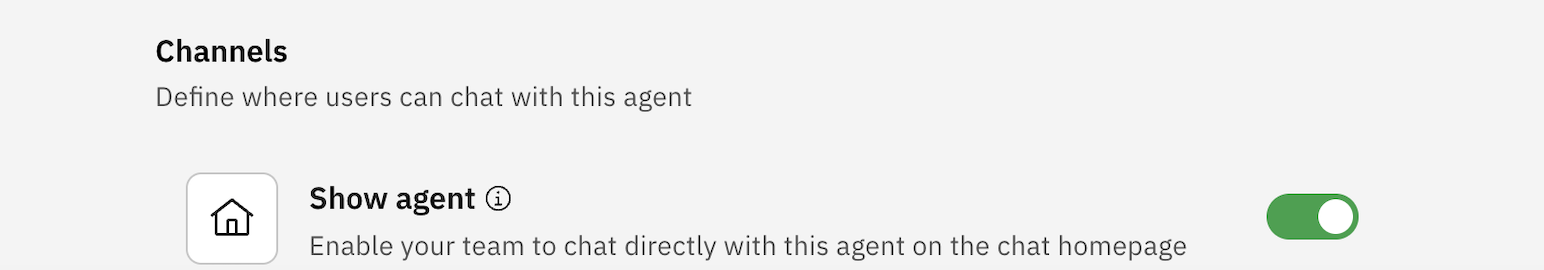
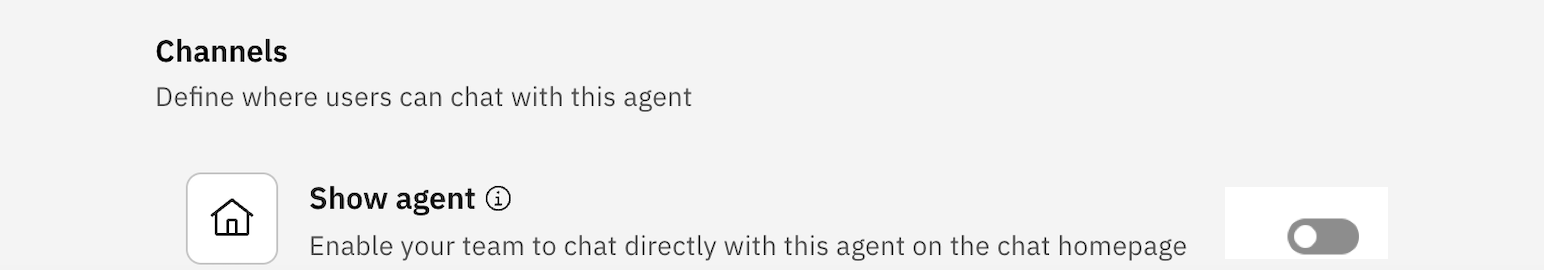
Updated Readme

Changed region(s): [[0.8083, 0.7111, 0.9016, 0.9481]]

diff --git a/usecases/O2C-Automation-lab/practitioner_docs/hands-on-lab.md b/usecases/O2C-Automation-lab/practitioner_docs/hands-on-lab.md
@@ -79,9 +79,8 @@ The Supervisor Agent oversees two domain-specific agents:
 It also handles general queries by routing them to a knowledge base.
 ```
 
-watsonx Orchestrate supports creating an agent from scratch or from a template which involves browsing a catalog of existing agents and using attributed of another agent as a template for the new agent. For this lab, you will be creating agents from scratch.
+Watsonx Orchestrate supports creating an agent from scratch or from a template which involves browsing a catalog of existing agents and using attributed of another agent as a template for the new agent. For this lab, you will be creating agents from scratch.
 
-*Note: It is recommended to review the [What are AI Agents?](https://www.ibm.com/think/topics/ai-agents) blog for some background on how AI agents work.*
 ![wxo order to cash agent](./images/img20.png) 
 
 ### Agent Configuration 
@@ -92,16 +91,10 @@ After the AI Agent is created, in this section, you will go through the process 
    - Profile: The **Profile** section consists of the description of the agent which you provided as part of creating the agent. You can always go to this section to edit and refine the description of the agent as needed.
 
    - Knowledge: The **Knowledge** section is where you can add knowledge to the agent. Adding knowledge to agents plays a crucial role in enhancing their conversational capabilities by providing them with the necessary information to generate accurate and contextually relevant responses for specific use cases. You can directly upload files to the agent, or connect to a Milvus or Elasticsearch instance as a content repository. Through this **Knowledge** interface, you can enable your AI agents to implement the Retrieval Augmented Generation (RAG) pattern which is a very popular AI pattern for grounding responses to a trusted source of data such as enterprise knowledge base.
-   
-   *Note: For more details, please consult the [Adding knowledge to agents](https://www.ibm.com/docs/en/watsonx/watson-orchestrate/current?topic=agents-adding-knowledge) documentation.*
 
    - Toolset: While *Knowledge* is how you empower agents with a trusted knowledge base, then **Toolset** is how you enable agents to take action by providing them with *Tools* and *Agents*. Agents can accomplish tasks by using **Tools** or can delegate tasks to other **Agents** which are deeply skilled in such tasks.
-
-   *Note: For more details, please consult the [Adding tools to an agent](https://www.ibm.com/docs/en/watsonx/watson-orchestrate/current?topic=agents-adding-tools) and [Adding agents for orchestration](https://www.ibm.com/docs/en/watsonx/watson-orchestrate/current?topic=agents-adding-orchestration) sections of the documentation.*
    
    - Behavior: The **Behavior** section of the agent configuration is where you provide instructions to the agent to define how it responds to user requests and situations. You can configure rules that dictate when and how the agent should take action. These rules help the agent behave in a predictable and consistent manner, delivering a seamless user experience.
-
-   *Note: For more details, please consult the [Adding instructions to agents](https://www.ibm.com/docs/en/watsonx/watson-orchestrate/current?topic=agents-adding-instructions) documentation.
 
 Lastly, after you've completed your agent configuration and tested its performance, you can **Deploy** the agent to make it available through the selected channel. At this time, the main channel supported is the *Chat* home page you access when you first launched watsonx Orchestrate. The product will be adding support for additional channels where you can deploy your agent(s).
 
@@ -113,7 +106,7 @@ Description:
 
 ```This knowledge addresses all the queries related to Order to Cash process.```
 
-Next, you have to choose how to provide knowledge information to the agent. Watsonx Orchestrate supports adding knowledge to the agent either by uploading files directly through the UI or by pointing to a content repository (Mivlus or ElasticSearch). The [Adding knowledge to agents](https://www.ibm.com/docs/en/watsonx/watson-orchestrate/current?topic=agents-adding-knowledge) documentation provides more details. For this lab, click the **Upload files** button to upload pdf files.
+Next, you have to choose how to provide knowledge information to the agent. Watsonx Orchestrate supports adding knowledge to the agent either by uploading files directly through the UI or by pointing to a content repository (Mivlus or ElasticSearch). For this lab, click the **Upload files** button to upload pdf files.
 
 ![wxo agent config knowledge](./images/img35.png) 
 
@@ -164,7 +157,7 @@ As explained earlier, the decription of an agent is important as it is leveraged
 
 ![wxo tool options](./images/img4.png) 
 
-watsonx Orchestrate supports multiple approaches to adding tools to agents as explained in the [Adding tools to an agent](https://www.ibm.com/docs/en/watsonx/watson-orchestrate/current?topic=agents-adding-tools) documentation:
+watsonx Orchestrate supports multiple approaches to adding tools to agents:
 
    - Add from catalog: The **Add from catalog** option enables you to add a tool from a rich catalog of pre-defined tools. The catalog of tools is actively being developed to make it even easier to add tools to agents.
 
@@ -173,9 +166,6 @@ watsonx Orchestrate supports multiple approaches to adding tools to agents as ex
    - Import: The **Import** option enables you to import an external tool using an OpenAPI specification and selecting which operations you want to import as tools.
 
    - Create a new flow: The **Create a new flow** option provides you with a drag and drop tool builder interface to create a sequence of steps that utilize conditional controls and activities. 
-
-Additionally, you can use the watsonx Orchestrate [Agentic Development Kit (ADK)](https://developer.watson-orchestrate.ibm.com/) to develop and upload Python and OpenAPI tools to a specific watsonx Orchestrate instance which you can then add to the agents.
-watsonx Orchestrate also supports the addition of [Model Context Protocol (MCP)](https://developer.watson-orchestrate.ibm.com/) tools. If you are not familiar with it, MCP is a standard for connecting AI Agents to systems where data lives including content repositories, business tools and development environments. MCP is becoming increasingly popular as the standard for enabling agents with tools.
 
 For purposes of the Order-to-Cash Agent, you will use the **Import** option to import an OpenAPI specification and define which operations to import as tools. You will need a Openapi spec file which will be provided by your instructor. 
 
@@ -292,7 +282,7 @@ Again, observe the response and expand the **Show Reasoning** link to trace thro
 ![wxo tool order](./images/img9.png) 
 ![wxo tool order](./images/img10.png)
 
-23. At this point, you are ready to deploy your Agent. To do so, scroll to the bottom of the configuration page and make sure the slide bar next to Show agent is enabled (green) to make the Agent accessible on the chat interface. Click the **Deploy** button to deploy the agent and makes it available to be used as a collaborator agent.
+23. At this point, you are ready to deploy your Agent. To do so, scroll to the bottom of the configuration page and make sure the slide bar next to Show agent is disabled. Click the **Deploy** button to deploy the agent and makes it available to be used as a collaborator agent.
 
 ![wxo order managemen agent deploy](./images/show-chat.png)
 ![wxo o2c deploy](./images/img11.png) 
@@ -405,7 +395,7 @@ Next, test the functionality of the agent by asking a question such as
 ![wxo order management agent behavior](./images/img18.png)
 ![wxo chat q3 reasoning](./images/img34.png)
 
-33. At this point, you are ready to deploy your Agent. To do so, scroll to the bottom of the configuration page and make sure the slide bar next to Show agent is enabled (green) to make the Agent accessible on the chat interface. Next, click the **Deploy** button to deploy the agent and makes it available to be used as a collaborator agent.
+33. At this point, you are ready to deploy your Agent. To do so, scroll to the bottom of the configuration page and make sure the slide bar next to Show agent is disabled. Next, click the **Deploy** button to deploy the agent and makes it available to be used as a collaborator agent.
 
 ![wxo order managemen agent deploy](./images/show-chat.png)
 ![wxo order managemen agent deploy](./images/img19.png) 
@@ -427,7 +417,7 @@ Now that you have developed all agents and tools, in this section, you will work
 
 37. On the **Order-to-Cash Agent** configuration page, scroll down to the **Toolset** section or click the **Toolset** shortcut, and then click **Add agent** to add a collaborator agent.
 
-38. On the pop-up, select **Add from local instance** tile. For reference, watsonx Orchestrate supports multiple approaches for adding collaborator agents. Please take a minute to consult the [Adding agents for orchestration](https://www.ibm.com/docs/en/watsonx/watson-orchestrate/current?topic=agents-adding-orchestration) documentation for an overview of the different approaches including the option to add a collaborator agent from a rich catalog of pre-built agents or from other agents defined on the local instance or even importing an external agent.
+38. On the pop-up, select **Add from local instance** tile. For reference, watsonx Orchestrate supports multiple approaches for adding collaborator agents.
 
 ![wxo collaborator agents](./images/img22.png)  
 

diff --git a/README.md b/README.md
@@ -20,6 +20,7 @@ Select an enterprise use case, learn about the business story, and implement it 
 - [Financial Research Analyst](./usecases/banking-financial-research-analyst)
 - (beta) [Auto insurance claims automation](./usecases/autoclaim-insurance)
 - (beta) [Retail Product Display Advisor](./usecases/retail/)
+- [Order to Cash Automation](./usecases/O2C-Automation-lab/)
 
 For additional use cases, please check out the [Agentic AI Bootcamp Community Repository](https://github.ibm.com/skol/agentic-ai-client-bootcamp-community) -- **see note below**
 
